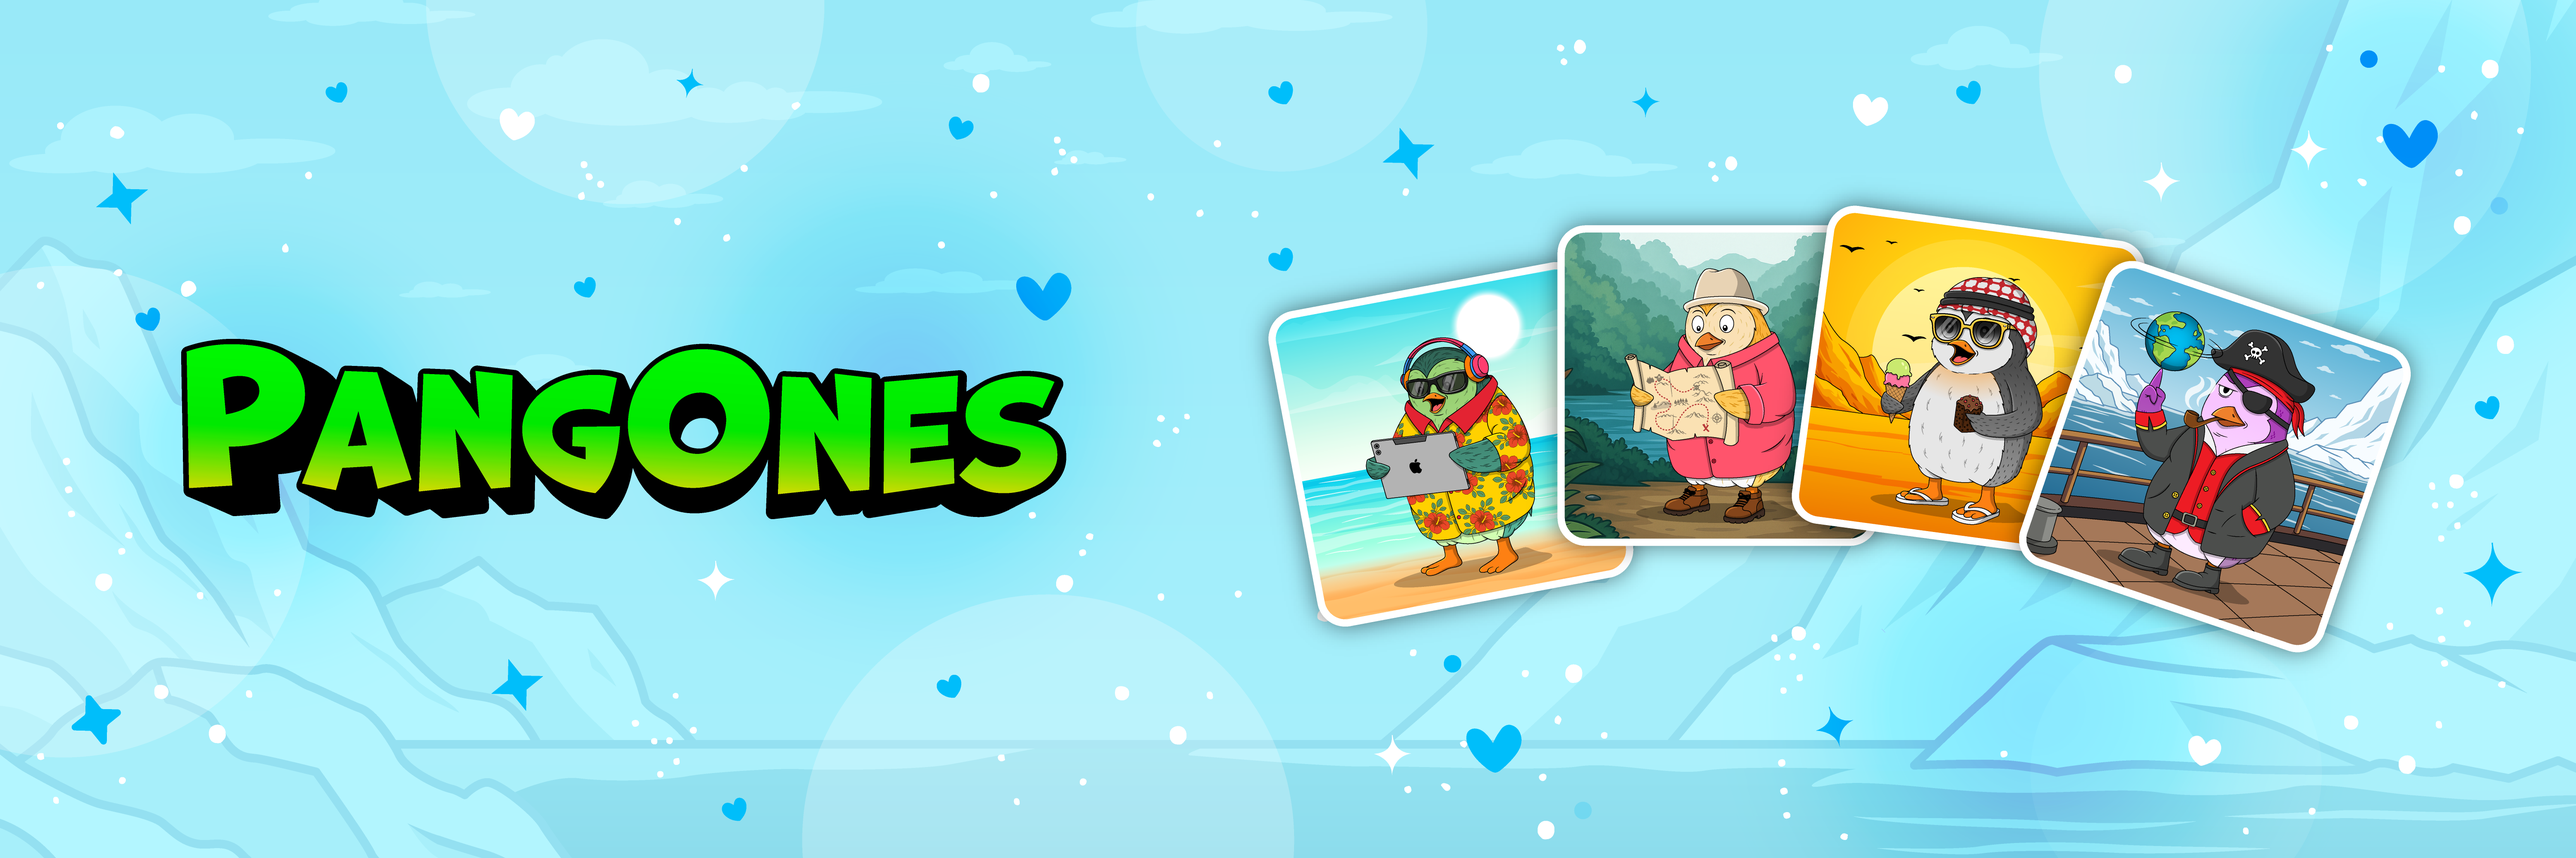
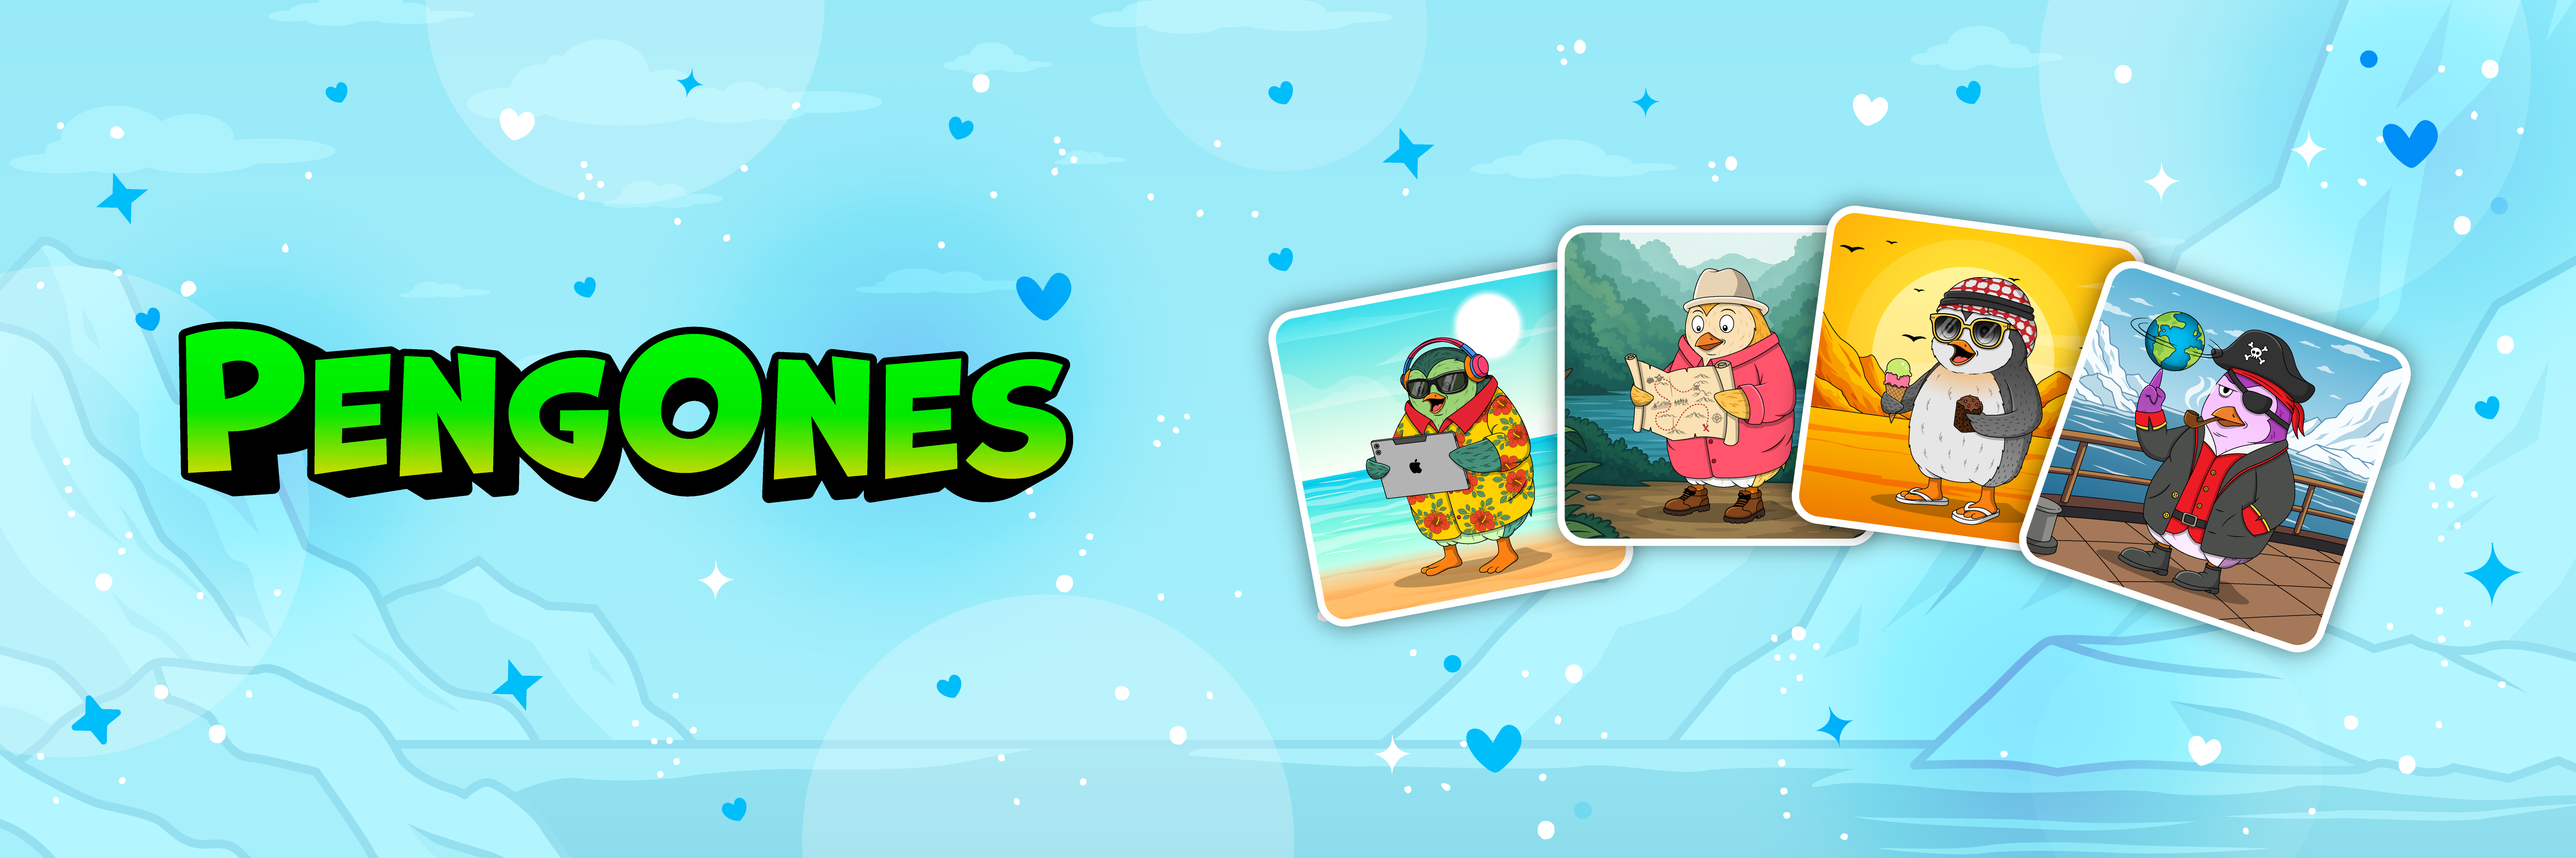
GITBOOK-1013: PengOnes

Changed region(s): [[0.0623, 0.372, 0.4363, 0.62]]

diff --git a/gatahub/pengones/README.md b/gatahub/pengones/README.md
@@ -1,7 +1,9 @@
 ---
-description: Your
+description: >-
+  PengOnes are community-powered, yield-infused penguins born in the icy
+  intersection of GATA’s history, AtomOne’s future, and Stargaze’s creativity.
 hidden: true
-cover: ../../.gitbook/assets/WhatsApp Image 2025-08-06 at 10.43.01 PM.jpeg
+cover: ../../.gitbook/assets/Banner-2.png
 coverY: 0
 layout:
   width: default
@@ -24,8 +26,6 @@ layout:
 
 # PengOnes
 
-
-
 {% hint style="info" %}
 Trade PengOnes now on Stargaze Market &#x20;
 {% endhint %}
@@ -44,15 +44,17 @@ Trade PengOnes now on Stargaze Market &#x20;
 
 Each month, PengOnes  collection by GATA HUB will provide you with&#x20;
 
-• Epoch Rewards (60% of yield revenue gets distributed to PengOnes  holders in  and )
+• Epoch Rewards (70% of yield revenue gets distributed to PengOnes  holders in  and )
 
 • Buy & Burn program (10% of yield gets used to sweep floor & to reduce supply continuously)&#x20;
 
-• Yield Raffle (10% of yield gets raffled with 3 random YCs winning; each YC = 1 ticket)
+• Yield Raffle (10% of yield gets raffled with 3 random YPOs winning; each YPOs = 1 ticket)
+
+• Collection offers (10% of yield for Collection offers always at Mint price)
 
 ## Monthly Yield Revenue & Trait-Based Yield Distribution&#x20;
 
-Yield Crocss holders benefit from monthly distributions of revenue gained from the yield model activities, the so called **epoch rewards**. These are **$SOL $yGATA** which get distributed directly to the wallets of holders. You just need to hold your Crocs tightly: **no staking is needed** to be eligible for these monthly epoch rewards.
+PengOne holders benefit from monthly distributions of revenue gained from the yield model activities, the so called **epoch rewards**. These are **$PHOTON $yGATA** which get distributed directly to the wallets of holders. You just need to hold your Crocs tightly: **no staking is needed** to be eligible for these monthly epoch rewards.
 
 The **individual yield share per NFT** gets determined by the **Skin colors** of your Crocs. There are **5 different colors** with **5 different yield share values**. The rarer your Crocs, the higher your rewards:&#x20;
 
